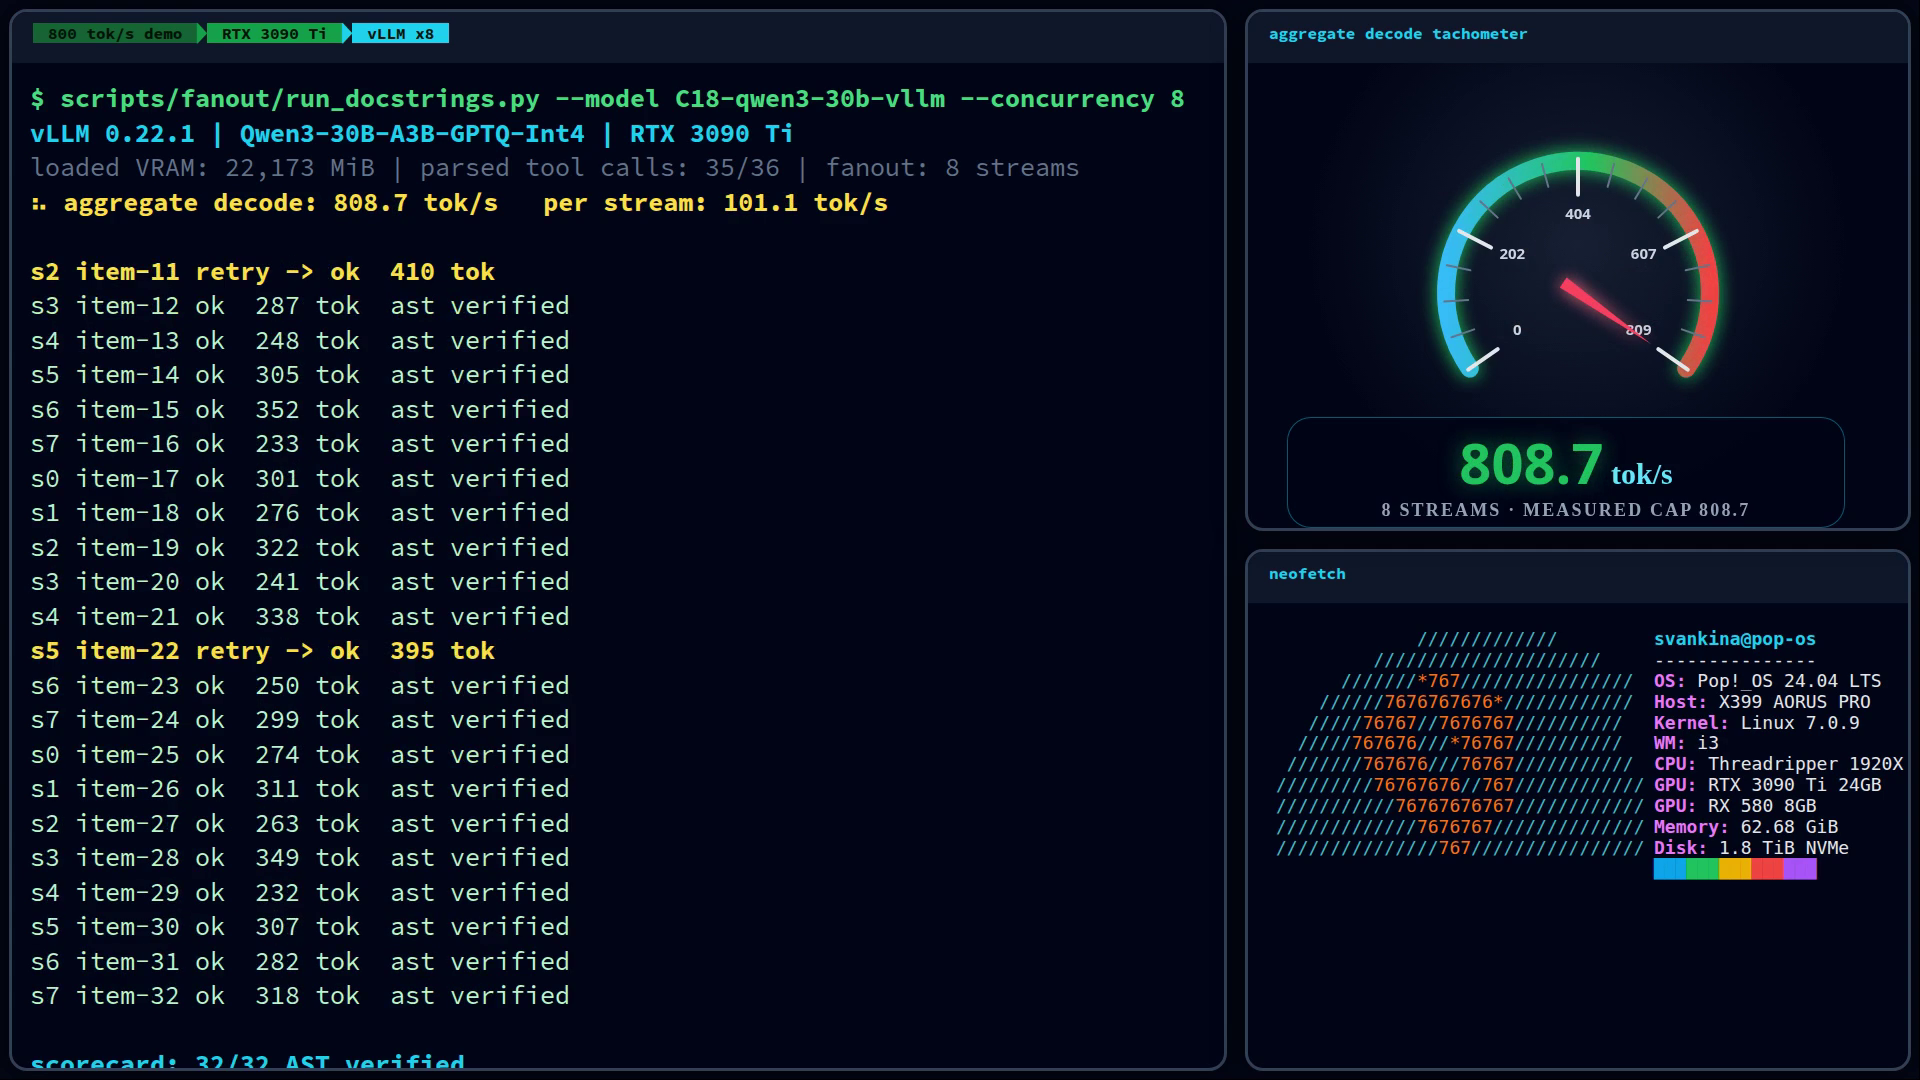
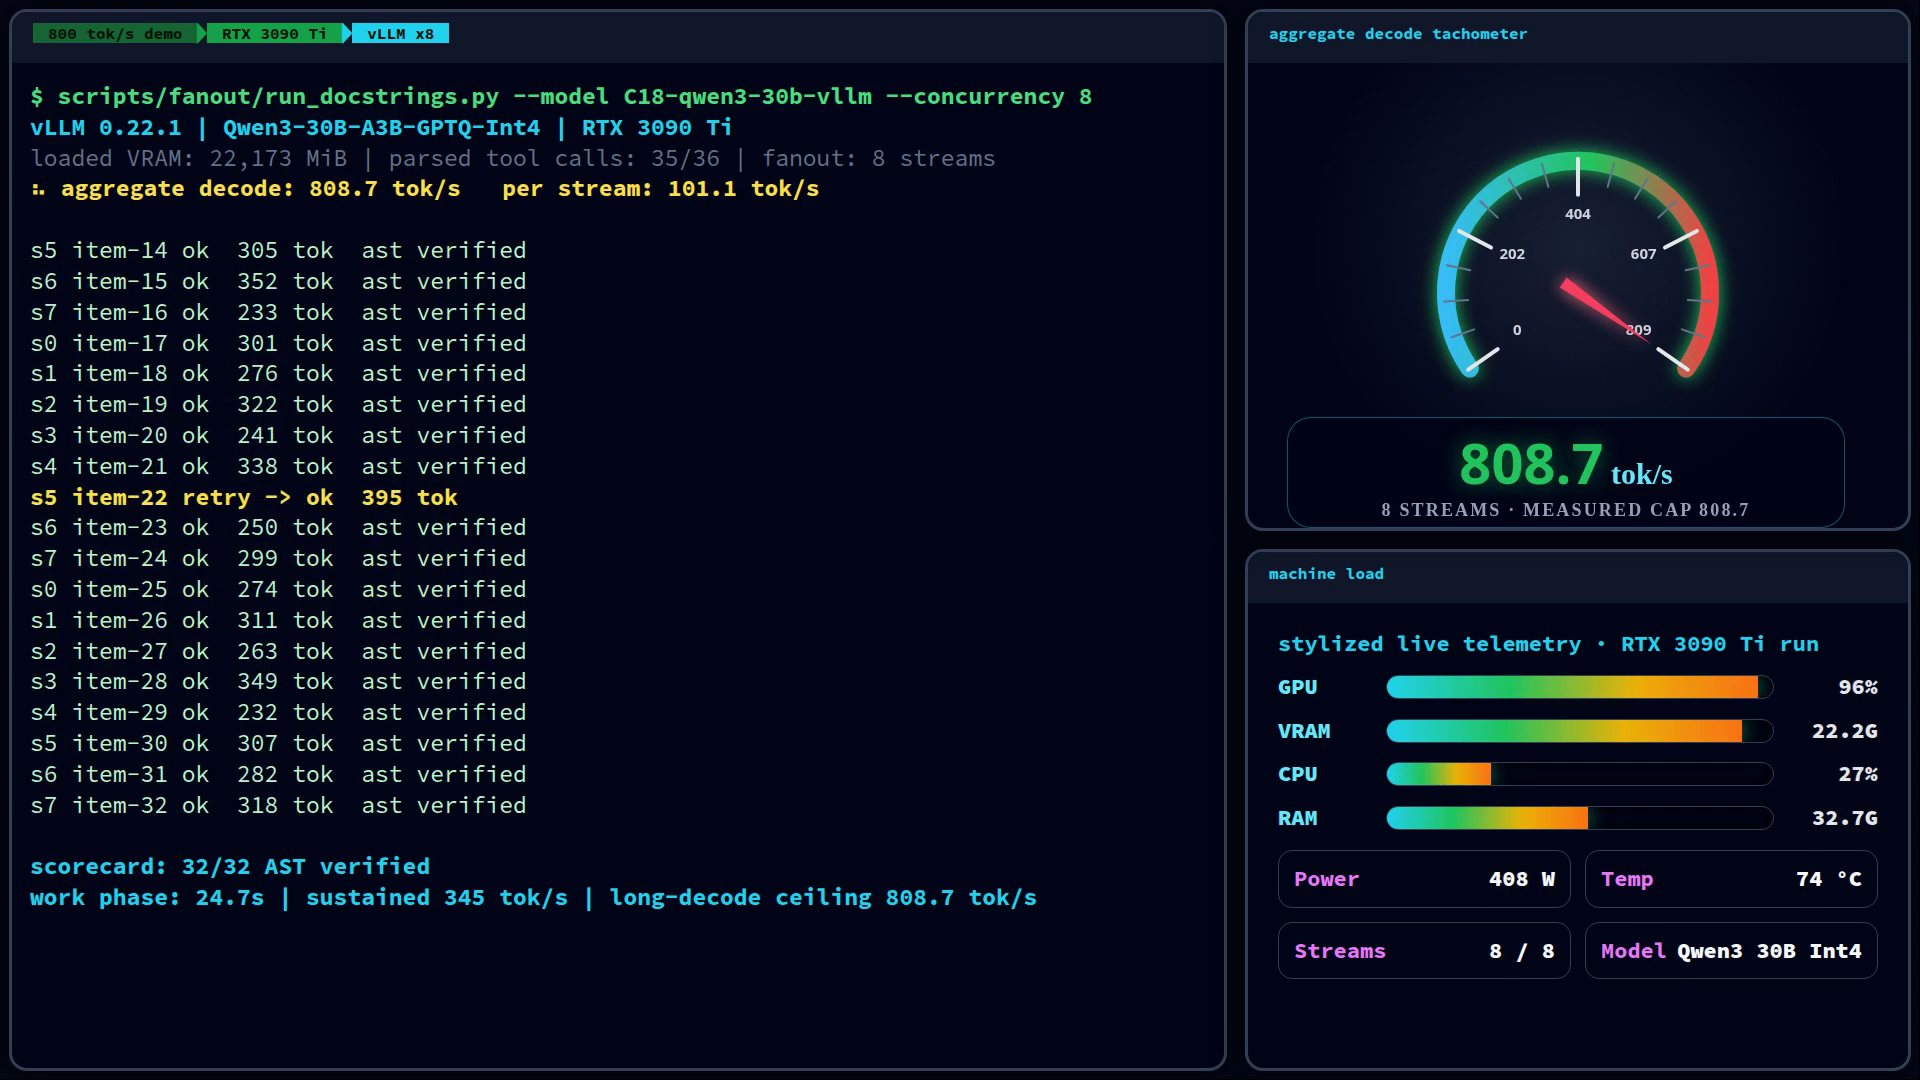
Use telemetry pane and keep task output visible

diff --git a/docs/article/2026-06-800-toks-3090.md b/docs/article/2026-06-800-toks-3090.md
@@ -4,7 +4,7 @@
 
 Not an autonomous multi-turn worker. A very fast single-shot fan-out engine.
 
-![dashboard capture showing the 8-stream fan-out run, tachometer, digital tok/s readout, and neofetch](assets/800-toks-tmux-demo.gif)
+![dashboard capture showing the 8-stream fan-out run, tachometer, digital tok/s readout, and machine telemetry](assets/800-toks-tmux-demo.gif)
 
 *Dashboard capture for the article. The tachometer is capped at the measured 808.7 tok/s ceiling.*
 